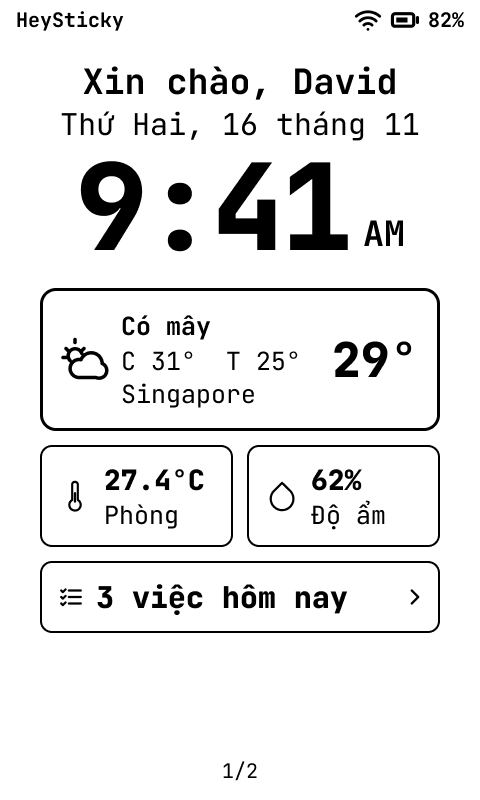
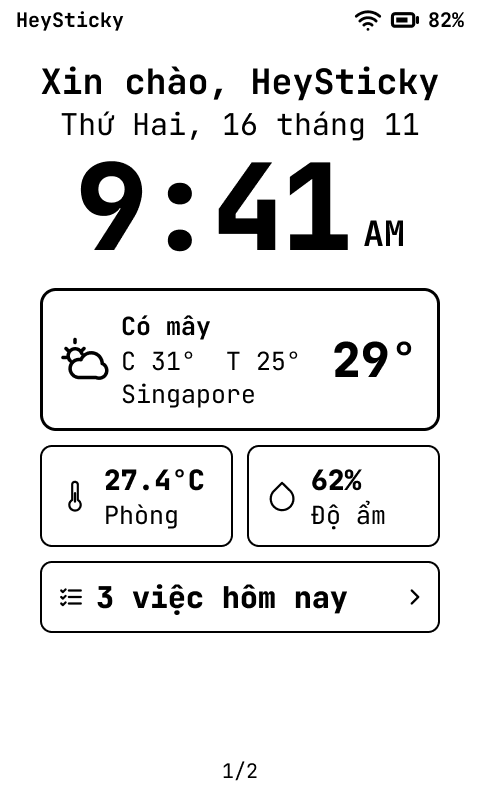
README: English and Vietnamese in the intro; screens re-exported after Figma fixes
Figma: the name David is now HeySticky (EN and VI Home, Sleep, phone Profile, font preview);
12-hour to-do times, v1.2.0 and "9:30 AM" on Software Update, matching the v1.2.0 firmware.

Changed region(s): [[0.0938, 0.0625, 0.75, 0.125], [0.8125, 0.0625, 0.9062, 0.125]]

diff --git a/README.md b/README.md
@@ -2,6 +2,8 @@
 
 Personal assistant firmware for the **Seeed reTerminal Sticky** (ESP32-S3, 3.97" e-paper, portrait).
 The e-paper screen is a dashboard you read at a glance; you add things by voice or from your phone.
+Works in **English and Tiếng Việt (Vietnamese)**: every screen, the phone page and voice input, including
+sentences that mix both.
 
 <p align="center">
   <img src="assets/preview.jpg" alt="HeySticky Home on a reTerminal Sticky: greeting, 6:57 PM clock, weather, indoor climate and 3 tasks today" width="320">
